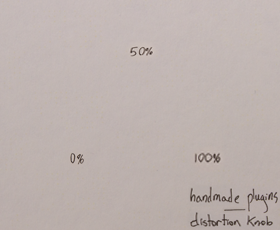
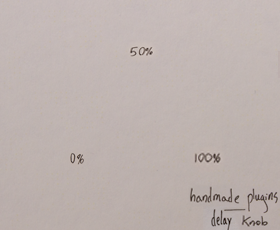
Refactoring delay plugin

Changed region(s): [[0.6857, 0.913, 0.9714, 1.0]]

diff --git a/IPlugExamples/Delay/Delay.cpp b/IPlugExamples/Delay/Delay.cpp
@@ -7,7 +7,7 @@ const int kNumPrograms = 3;
 
 enum EParams
 {
-  kFeedback = 0,
+  kWetLevel = 0,
   kNumParams
 };
 
@@ -15,26 +15,26 @@ enum ELayout
 {
   kWidth = GUI_WIDTH,
   kHeight = GUI_HEIGHT,
-  kFeedbackX = 79,
-  kFeedbackY = 62,
+  kWetLevelX = 79,
+  kWetLevelY = 62,
   kKnobFrames = 128
 };
 
 Delay::Delay(IPlugInstanceInfo instanceInfo)
-  :	IPLUG_CTOR(kNumParams, kNumPrograms, instanceInfo), mFeedback(1.), ptrL(0), ptrR(0), firstIteration(true)
+  :	IPLUG_CTOR(kNumParams, kNumPrograms, instanceInfo), mWetLevel(1.), ptrL(0), ptrR(0), firstIteration(true)
 {
   TRACE;
 
   //arguments are: name, defaultVal, minVal, maxVal, step, label
-  GetParam(kFeedback)->InitDouble("Feedback", 50.0, 0.0, 100.0, 0.01, "%");
-  GetParam(kFeedback)->SetShape(0.1);
+  GetParam(kWetLevel)->InitDouble("WetLevel", 50.0, 0.0, 100.0, 0.01, "%");
+  GetParam(kWetLevel)->SetShape(0.1);
 
   IGraphics* pGraphics = MakeGraphics(this, kWidth, kHeight);
   pGraphics->AttachBackground(BACKGROUND_ID, BACKGROUND_FN);
 
   IBitmap knob = pGraphics->LoadIBitmap(KNOB_ID, KNOB_FN, kKnobFrames);
 
-  pGraphics->AttachControl(new IKnobMultiControl(this, kFeedbackX, kFeedbackY, kFeedback, &knob));
+  pGraphics->AttachControl(new IKnobMultiControl(this, kWetLevelX, kWetLevelY, kWetLevel, &knob));
 
   AttachGraphics(pGraphics);
 
@@ -45,7 +45,7 @@ Delay::~Delay() {}
 
 void Delay::ProcessDoubleReplacing(double** inputs, double** outputs, int nFrames)
 {
-  // Mutex is already locked for us.
+  // Mutex is already locked.
 
   int const channelCount = 2;
 
@@ -63,17 +63,16 @@ void Delay::ProcessDoubleReplacing(double** inputs, double** outputs, int nFrame
 			  mBufferL[ptrL] = *input;
 			  // Delay effect
 			  if (!firstIteration) {
-				  if (mBufferL[DelayPtrCalculation(&ptrL)]) {
-					  *output = *input + (mFeedback * mBufferL[DelayPtrCalculation(&ptrL)]);
-				  }
-				  else {
+				  if (mBufferL[DelayPtrCalc(&ptrL)]) {
+					  *output = *input + (mWetLevel * mBufferL[DelayPtrCalc(&ptrL)]);
+				  } else {
 					  *output = *input;
 				  }
-			  }
-			  else {
+			  } else {
+				  // Do not create delay effect if no data exists in the buffer
 				  *output = *input;
 			  }
-			  ptrL++;
+			  ++ptrL;
 		  } else {
 			  if (ptrR > 32767) {
 				  ptrR = 0;
@@ -81,10 +80,9 @@ void Delay::ProcessDoubleReplacing(double** inputs, double** outputs, int nFrame
 			  }
 			  mBufferR[ptrR] = *input;
 			  if (!firstIteration) {
-				  if (mBufferR[DelayPtrCalculation(&ptrR)]) {
-					  *output = *input + (mFeedback * mBufferR[DelayPtrCalculation(&ptrR)]);
-				  }
-				  else {
+				  if (mBufferR[DelayPtrCalc(&ptrR)]) {
+					  *output = *input + (mWetLevel * mBufferR[DelayPtrCalc(&ptrR)]);
+				  } else {
 					  *output = *input;
 				  }
 			  }
@@ -109,8 +107,8 @@ void Delay::OnParamChange(int paramIdx)
 
   switch (paramIdx)
   {
-    case kFeedback:
-      mFeedback = (GetParam(kFeedback)->Value() / 100.);
+    case kWetLevel:
+      mWetLevel = (GetParam(kWetLevel)->Value() / 100.);
       break;
 
     default:
@@ -124,7 +122,7 @@ void Delay::CreatePresets() {
 	MakePreset("Extreme", 99.9);
 }
 
-int Delay::DelayPtrCalculation(int * ptr) {
+int Delay::DelayPtrCalc(int * ptr) {
 	if ((*ptr - 16384) < 0) {
 		return (32768 + (*ptr - 16384));
 	} else {

diff --git a/IPlugExamples/Delay/Delay.h b/IPlugExamples/Delay/Delay.h
@@ -12,10 +12,10 @@ public:
   void Reset();
   void OnParamChange(int paramIdx);
   void ProcessDoubleReplacing(double** inputs, double** outputs, int nFrames);
-  int DelayPtrCalculation(int * ptr);
+  int DelayPtrCalc(int * ptr);
 
 private:
-  double mFeedback;
+  double mWetLevel;
   //int mSampleRate; // How to access if changed from 44.1kHz? 
   // -> Unnecessary, GetSampleRate() is inherited from IPlugBase
   int ptrL;
